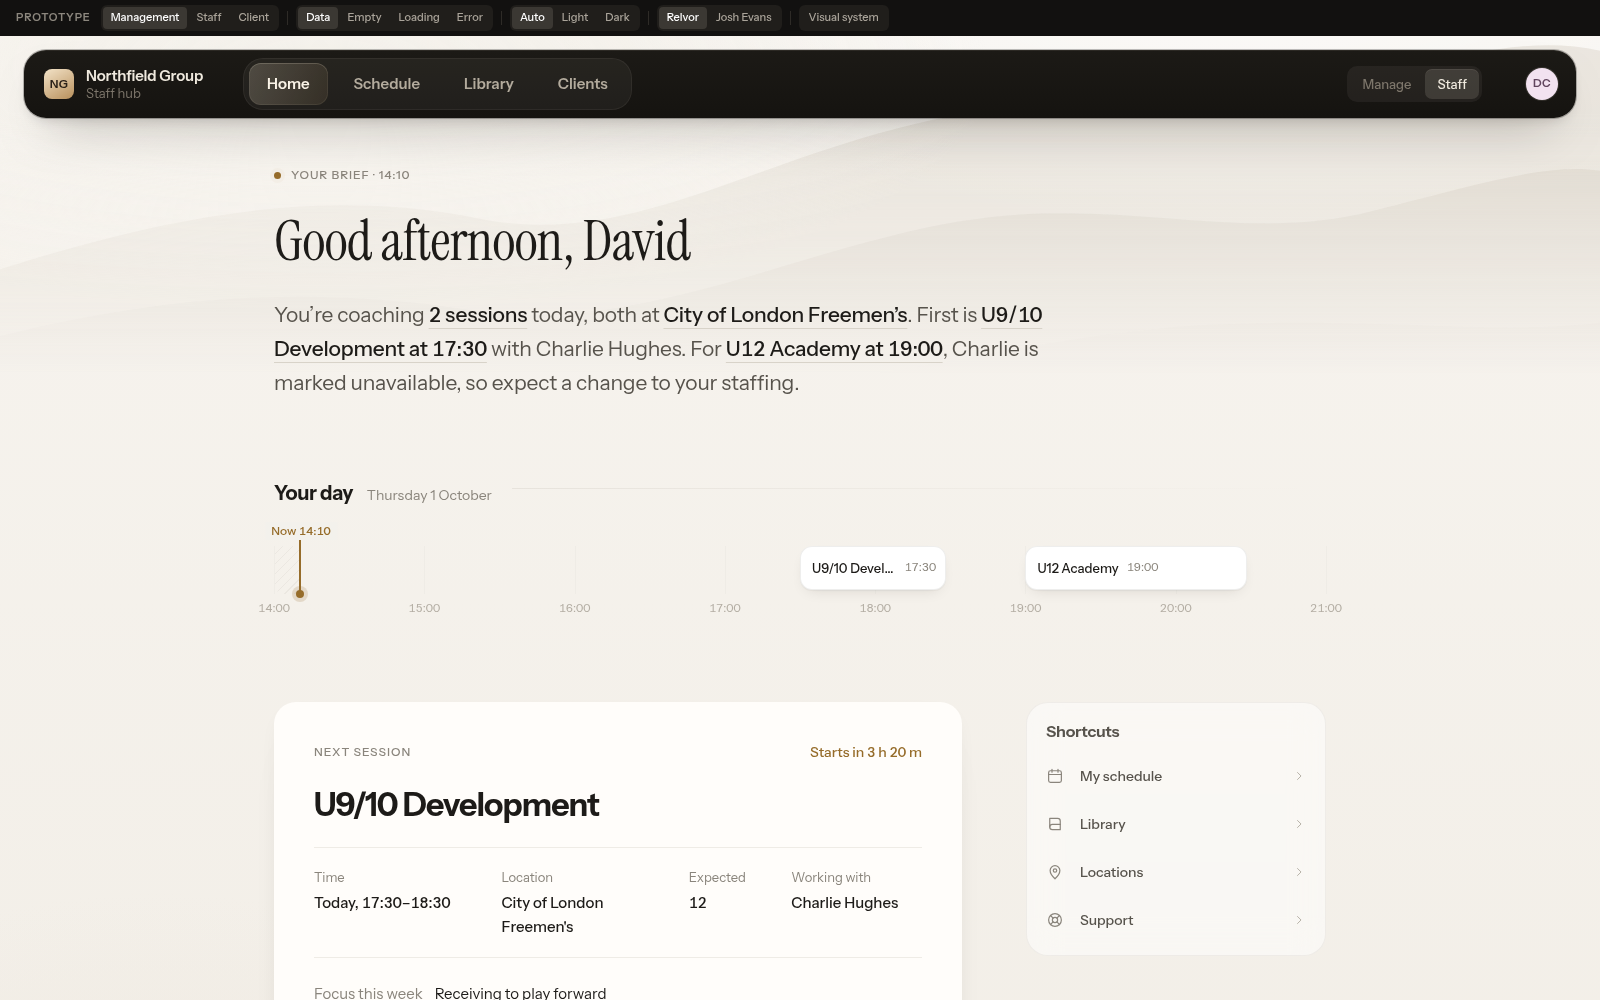
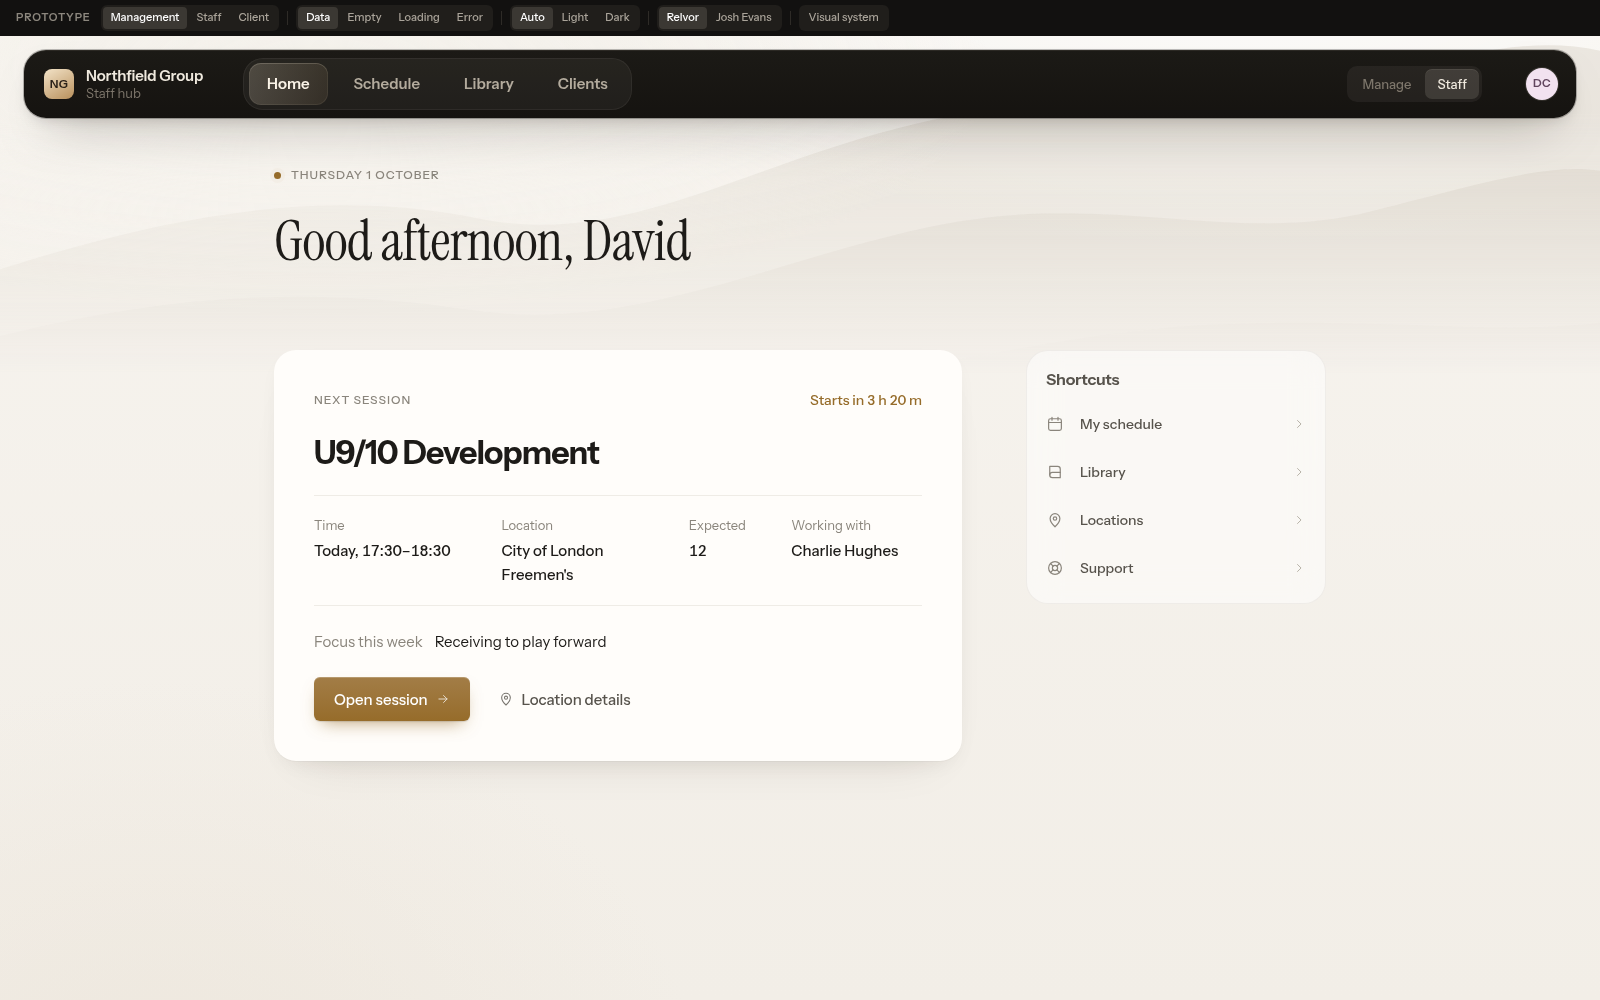
Remove written overview and day line from Staff and Client homes
Greeting only at the top of both homes; Staff Home drops the Your day
timeline. Canvas tint now covers the full height on short pages.

Claude-Session: https://claude.ai/code/session_01SWiexxQyknhV69e1p8GTLa

diff --git a/js/screens/coach.js b/js/screens/coach.js
@@ -24,20 +24,17 @@
     var later = D.occurrences.filter(function (o) { return o.date > '2026-10-01' && mine(o); });
     var first = D.me.name.split(' ')[0], T = ui.tok;
     var head = '<header class="page-head"><div class="page-head__text"><h1 class="page-title">Good afternoon, ' + esc(first) + '</h1><p class="page-meta">Thursday 1 October \u00b7 ' + esc(D.term) + '</p></div></header>';
-    var brief = ui.brief({ kicker: 'Your brief \u00b7 14:10', title: 'Good afternoon, ' + first,
-      lines: ['You\u2019re coaching ' + T('2 sessions', '', '#coach-schedule') + ' today, both at ' + T('City of London Freemen\u2019s', '', '#coach-venues') + '. First is ' + T('U9/10 Development at 17:30', 'accent') + ' with Charlie Hughes. ' +
-        'For ' + T('U12 Academy at 19:00', 'warn') + ', Charlie is marked unavailable, so expect a change to your staffing.'] });
-    var day = ui.dayline({ label: 'Your day', meta: 'Thursday 1 October', start: 14, end: 21, now: '14:10', ground: true,
-      items: D.occurrences.filter(function (o) { return o.date === '2026-10-01' && mine(o); }).map(function (o, i) { return { title: o.session, start: o.start, end: o.end, state: i === 0 ? 'mine' : '', action: 'soon' }; }) });
+    /* Greeting only: the written overview and the day line are removed for now. */
+    var brief = ui.brief({ kicker: 'Thursday 1 October', title: 'Good afternoon, ' + first, lines: [] });
 
     if (ctx.state === 'loading') return '<div class="page">' + head + '<div class="surface surface--pad" style="display:grid;gap:18px"><span class="skeleton" style="height:12px;width:120px"></span><span class="skeleton" style="height:26px;width:55%"></span><span class="skeleton" style="height:44px"></span></div></div>';
     if (ctx.state === 'error') return '<div class="page page--narrow">' + head + ui.notice('danger', 'Couldn’t load your schedule', 'This is usually a weak connection. Check your signal and try again.', { action: ui.btn('Retry', { size: 'sm', icon: 'refresh' }) }) + '</div>';
 
     var links = [['calendar', 'My schedule', '#coach-schedule'], ['book', 'Library', '#coach-library'], ['pin', 'Locations', '#coach-venues'], ['support', 'Support', '#coach-support']];
 
-    if (ctx.state === 'empty') return '<div class="page"><div class="home">' + ui.brief({ kicker: 'Your brief \u00b7 14:10', title: 'Good afternoon, ' + first, lines: ['Nothing on today. Your next session is ' + T('St Peter\u2019s After School', '', '#coach-schedule') + ' on Friday at 16:00.'] }) + '</div></div>';
+    if (ctx.state === 'empty') return '<div class="page"><div class="home">' + brief + '<div class="surface">' + ui.empty('calendar', 'Nothing on today', 'Your next session is St Peter\u2019s After School on Friday at 16:00.') + '</div></div></div>';
 
-    return '<div class="page"><div class="home">' + brief + day +
+    return '<div class="page"><div class="home">' + brief +
       '<div class="home-grid"><div class="col">' + nextSurface(today[0]) +
       '</div><aside class="col rail">' +
         '<section class="section section--quiet">' + ui.sectionHead('Shortcuts') + ui.rows(links.map(function (l) { return ui.row({ lead: I(l[0], 'row-glyph'), title: l[1], href: l[2], cls: 'row--quiet' }); }), 'rows--quiet rows--bare') + '</section>' +

diff --git a/js/screens/parent.js b/js/screens/parent.js
@@ -41,12 +41,11 @@
       return '<button type="button" data-action="member" data-id="' + c.id + '" aria-pressed="' + (c.id === member.id) + '">' + ui.avatar(c.name, 'xs') + esc(c.name.split(' ')[0]) + '</button>';
     }).join('') + '</div>' : '';
 
-    /* Client brief: the family's week in two sentences, then the week
+    /* Client greeting (the written overview is removed for now), then the week
        line (the Day Line at week scale). */
     var T = ui.tok, n = member.next, fn = member.name.split(' ')[0];
-    var brief = ui.brief({ kicker: 'This week \u00b7 updated 11:20', title: 'Welcome back, ' + first,
-      lines: [esc(fn) + '\u2019s next session is ' + T('today at ' + n.time.split(' ')[0], 'accent') + ' at ' + T(n.venue) + ', with ' + esc(n.coach) + '. ' +
-        (member.feedback ? 'New feedback from ' + esc(member.feedback.coach.split(' ')[0]) + ' is ' + T('ready to read', '', '#parent-development') + '.' : 'No new feedback yet.')],
+    var brief = ui.brief({ kicker: 'Thursday 1 October', title: 'Welcome back, ' + first,
+      lines: [],
       since: 'last Thursday', changes: P.updates.map(function (u) { return { text: u.title, time: 'Today, 11:20' }; }) });
     var week = [['Mon', 28], ['Tue', 29], ['Wed', 30], ['Thu', 1], ['Fri', 2], ['Sat', 3], ['Sun', 4]].map(function (d, i) { return { dow: d[0], date: d[1], past: i < 3, today: i === 3, session: i === 3 }; });
 

diff --git a/css/reference.css b/css/reference.css
@@ -24,7 +24,8 @@
 }
 
 /* ---------- Canvas: porcelain everywhere, a faint ridge behind each page head ---------- */
-body { background-color: var(--porcelain); background-image: var(--porcelain-image); }
+body { background: var(--porcelain); }
+.app { min-height: 100dvh; background-image: var(--porcelain-image); background-repeat: no-repeat; }
 .frame { background: transparent; }
 .main { position: relative; isolation: isolate; }
 .main:not(:has(.hx))::before {

diff --git a/docs/VISUAL-PASS-8.md b/docs/VISUAL-PASS-8.md
@@ -54,3 +54,12 @@ enterprise labelling, and still premium.
 - The obsidian shell and champagne active states belong to the Relvor
   platform, so they stay the same across organisations.
 - Status colours stay separate from both.
+
+## Follow-up: overview text and day line removed
+Removed at the reviewer's request, for now:
+- **Staff Home and Client Home:** the written overview under the greeting.
+  Both pages now open with the date and the greeting only.
+- **Staff Home:** the "Your day" timeline.
+
+The Client Home keeps its "Since your last visit" office update and the
+week strip. The canvas tint now fills the full height of short pages.
